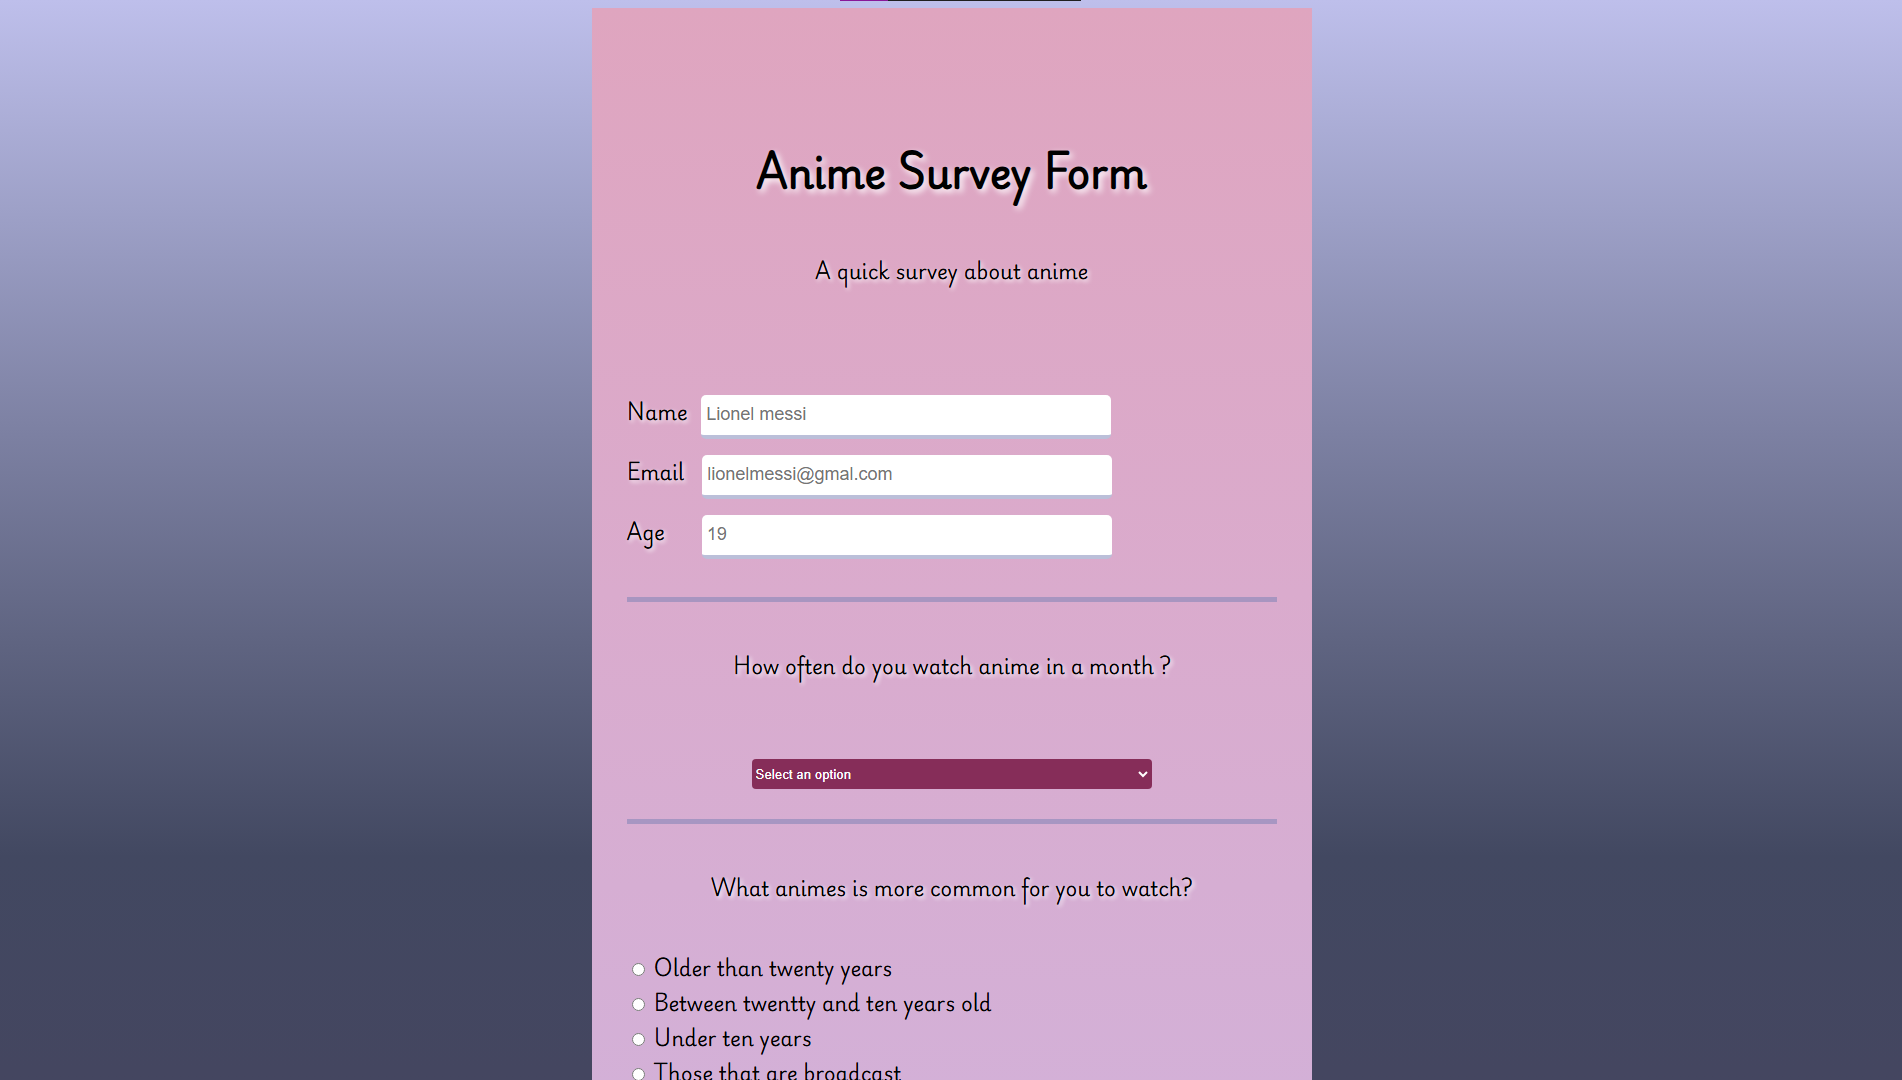
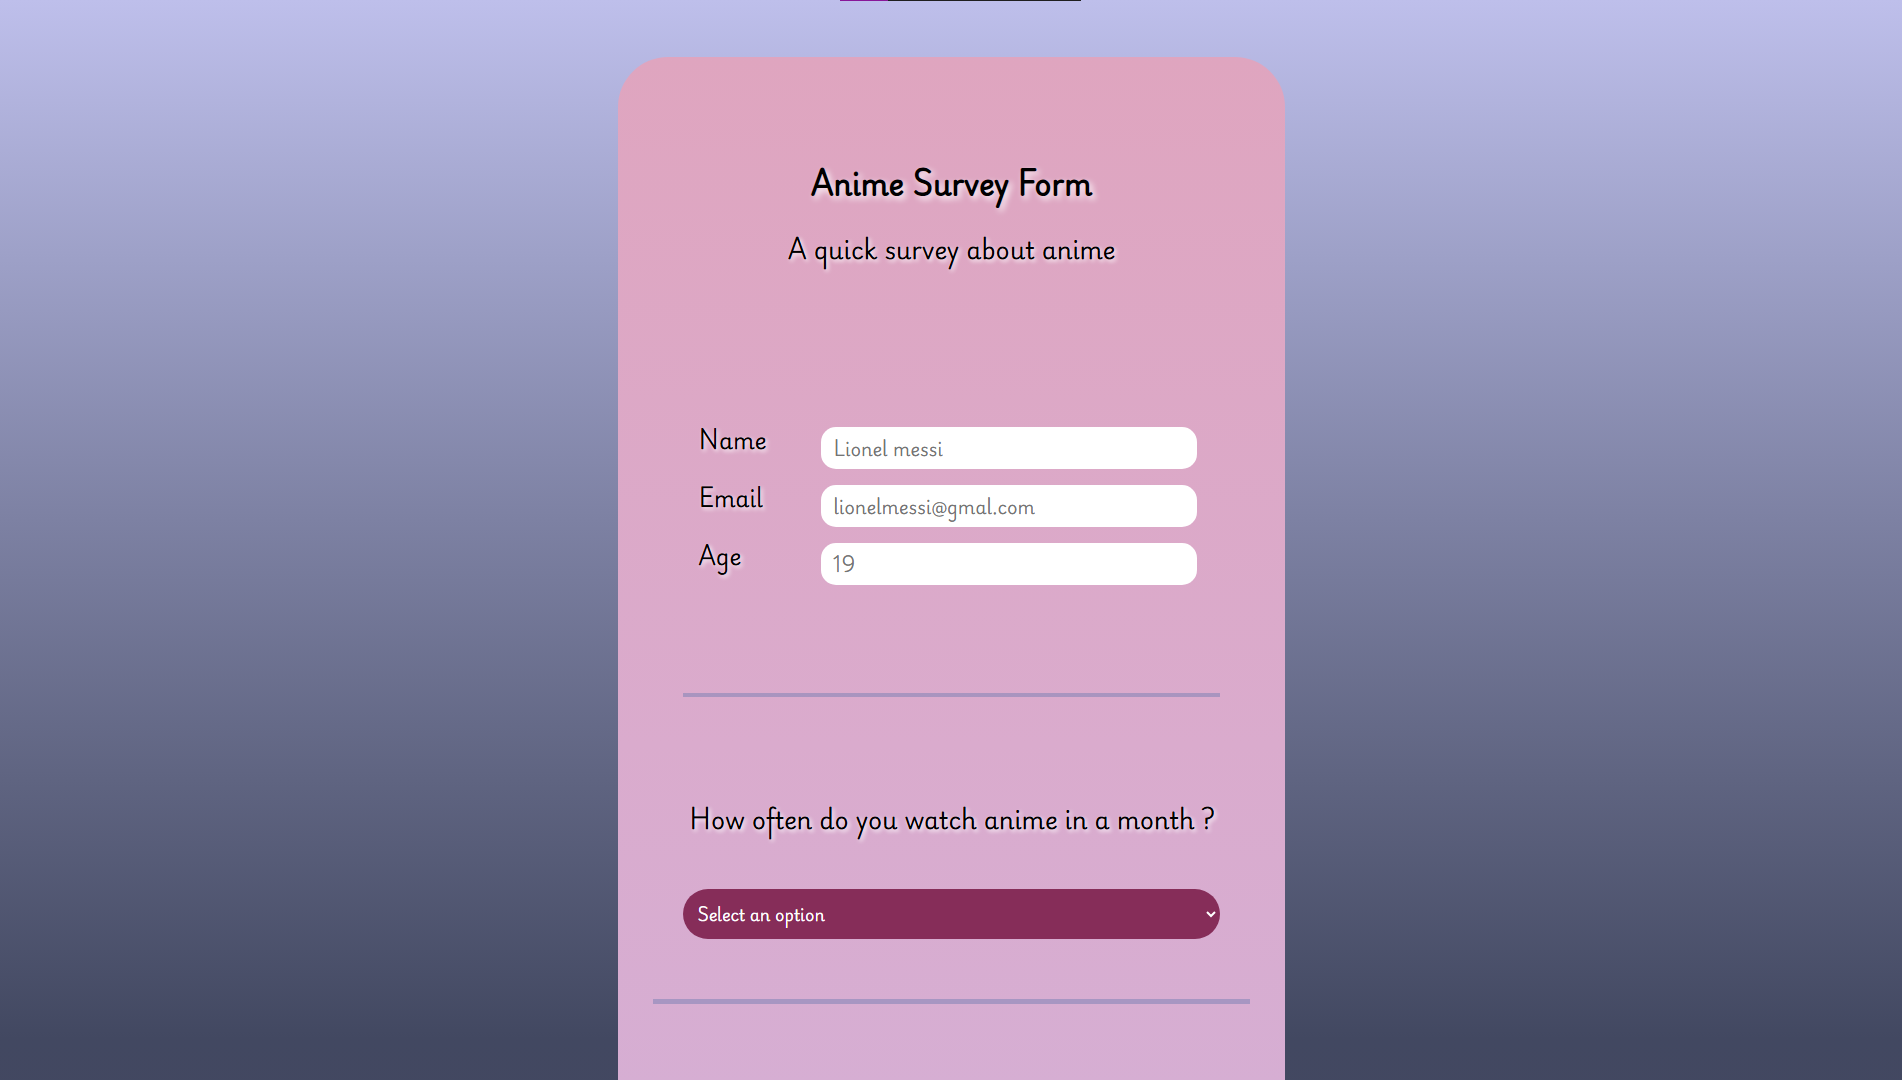
final form getsuga tenshou

diff --git a/styles.css b/styles.css
@@ -1,17 +1,29 @@
+@import url('https://fonts.cdnfonts.com/css/the-left-handed-cursiva');
+@import url('https://fonts.googleapis.com/css2?family=Gideon+Roman&family=Noto+Serif:ital,wght@0,100..900;1,100..900&family=Playwrite+DE+Grund:wght@100..400&family=Romanesco&display=swap');
+@import url('https://fonts.googleapis.com/css2?family=Gideon+Roman&family=Great+Vibes&family=Noto+Serif:ital,wght@0,100..900;1,100..900&family=Playwrite+DE+Grund:wght@100..400&family=Romanesco&display=swap');
+/* font-family: "Romanesco", cursive;
+font-family: 'The Left-Handed Cursiva', sans-serif; 
+font-family: "Great Vibes", cursive; */
+
 * {
     font-size: 1em;
     margin: 0;
     padding: 0;
     /* border: 1px solid black; */
     box-sizing: border-box;
+    font-family: "Great Vibes", cursive;
+}
+
+.fontRomanesco {
+    font-family: "Romanesco", cursive;
 }
 
 :root {
     --letrasPrincipales: #C81945;
-    --letrasSecundarias:  #6AB1C0;
+    --letrasSecundarias: #6AB1C0;
     --headerBackground: linear-gradient(130deg, rgba(37, 60, 100, 1) 60%, rgba(243, 224, 211, 1) 75%, rgba(237, 238, 234, 1) 100%);
     --bodyBackground: linear-gradient(130deg, rgba(203, 162, 140, 1) 0%, rgba(243, 224, 211, 1) 15%, rgba(237, 238, 234, 1) 25%, rgba(243, 224, 211, 1) 35%, rgba(216, 182, 163, 1) 50%, rgba(243, 224, 211, 1) 65%, rgba(237, 238, 234, 1) 75%, rgba(243, 224, 211, 1) 85%, rgba(216, 182, 163, 1) 100%);
-    --colorUno: #033E41 ;
+    --colorUno: #033E41;
     --colorDos: #593779;
     --colorTres: #253C64;
     --colorCuatro: #EDEEEA;
@@ -43,7 +55,7 @@ header {
     display: flex;
     justify-content: flex-end;
     align-items: center;
-    font-size: 1.4rem;
+    font-size: 2rem;
 
 
 }
@@ -60,10 +72,10 @@ header {
 
 .navbar ul li {
     margin: 25px;
-    padding: 12px;
-    border-radius: 15px 0 15px 0;
-    transition: 1s;
-
+    padding: 15px;
+    border-radius: 50px 2px 50px 2px;
+    transition: 700ms;
+    text-shadow: 5px 5px 5px var(--colorSeis);
 
 }
 
@@ -75,12 +87,13 @@ header {
 .navbar ul li:hover {
     background-color: var(--colorCinco);
     transform: scale(1.1);
+    text-shadow: 5px 5px 5px var(--colorCuatro);
 }
 
 .welcomeSection {
     height: fit-content;
     text-align: center;
-    font-size: 2.5rem;
+    font-size: 3rem;
     margin: 200px 30% 100px 30%;
     color: var(--letrasPrincipales);
 
@@ -88,7 +101,7 @@ header {
 
 .welcomeSection p {
     margin-top: 25px;
-    font-size: 2rem;
+    font-size: 2.2rem;
     color: var(--letrasSecundarias);
 
 }
@@ -98,32 +111,37 @@ header {
     margin: auto;
     height: 4px;
     border-color: var(--letrasSecundarias);
-    background-color:  var(--letrasSecundarias);
+    background-color: var(--letrasSecundarias);
     border-radius: 25px;
 }
 
 .encabezadoProjects {
-    font-size: 2rem;
+    font-size: 2.4rem;
     text-align: center;
     margin: 100px 30% 50px 30%;
     color: var(--letrasPrincipales);
 }
 
 .encabezadoProjects p {
-    font-size: 1.6rem;
+    font-size: 2.2rem;
     color: var(--letrasSecundarias);
     margin-top: 25px;
 }
 
 .projectsBox {
     display: grid;
-    grid-template-columns: repeat(auto-fit, minmax(500px, 1fr));
-    gap: 2rem;
+    grid-template-columns: repeat(auto-fit, minmax(45%, 1fr));
+    gap: 2.2rem;
     width: 100%;
-    max-width: 1280px;
+    max-width: 80%;
     margin: 0 auto;
     margin-bottom: 6rem;
 
+}
+
+.projectsBox p {
+    font-family: 'The Left-Handed Cursiva', sans-serif;
+    ;
 }
 
 .project-tile {
@@ -134,7 +152,7 @@ header {
     border-color: var(--colorSeis);
     border-radius: 25px;
     text-align: center;
-    font-size: 2rem;
+    font-size: 2.2rem;
     transition: 500ms;
     background-color: var(--colorUno);
 
@@ -154,8 +172,8 @@ header {
 }
 
 img {
-    width: 100%;
-    padding: 5px;
+    width: 99%;
+    padding: 1%;
     border-radius: 20px;
 }
 
@@ -166,8 +184,22 @@ footer {
     justify-content: center;
     align-content: center;
     background: linear-gradient(310deg, rgba(200, 25, 69, 1) 60%, rgba(243, 224, 211, 1) 75%, rgba(237, 238, 234, 1) 100%);
+    height: 20vh
 }
-footer img{
+
+footer p {
+    display: flex;
+    font-size: 3rem;
+    justify-content: center;
+    align-items: center;
+    text-align: center;
+    color: var(--colorCuatro);
+    text-shadow: 1px 1px 3px var(--colorUno);
+    text-decoration: underline var(--colorTres);
+    margin: 0 20px 0 0;
+}
+
+footer img {
     width: 50px;
 }
 
@@ -175,9 +207,131 @@ footer ul {
     display: flex;
     justify-content: center;
     align-items: center;
-    font-size: 1.6rem;
+    font-size: 2rem;
     list-style: none;
     text-align: center;
     margin: 20px;
 
+}
+
+footer li {
+    text-decoration: underline var(--colorTres) double 2px;
+    text-shadow: 1px 1px 10px var(--colorCuatro);
+    margin-left: 5px;
+}
+
+footer a {
+    height: 60px;
+    color: var(--colorCuatro);
+    text-decoration: none;
+    display: flex;
+    align-items: center;
+    justify-content: center;
+    text-align: center;
+    gap: 0.5rem;
+    transition: 1s;
+    margin: 0 0 0 25px;
+    padding: 10px 10px;
+    border-radius: 20px;
+}
+
+footer a:hover {
+    transform: scale(1.05);
+    background-color: var(--colorTres);
+    text-shadow: none;
+    box-shadow: 0px 0px 10px var(--colorCuatro);
+    text-decoration: underline var(--letrasPrincipales) double 2px;
+}
+
+
+
+
+/*-------- Mobile Screen ----------*/
+
+
+
+
+
+@media (max-width: 900px) {
+
+    .navbar {
+        justify-content: center;
+    }
+
+    .navbar ul li {
+        margin: 10px;
+        text-shadow: 5px 5px 5px black;
+
+    }
+
+    .navbar ul li:active {
+        background-color: var(--colorCinco);
+        transform: scale(1.1);
+        text-shadow: 5px 5px 5px var(--colorCuatro);
+    }
+
+    .welcomeSection {
+        font-size: 2.5rem;
+        margin: 200px 10% 100px 10%;
+    }
+
+    .encabezadoProjects {
+        font-size: 2.2rem;
+        margin: 100px 10% 50px 10%;
+    }
+
+    .encabezadoProjects p {
+        font-size: 2rem;
+    }
+
+
+    .projectsBox {
+        display: grid;
+        grid-template-columns: repeat(auto-fit, minmax(100%, 1fr));
+        gap: 2.2rem;
+        width: 100%;
+        max-width: 80%;
+        margin: 0 auto;
+        margin-bottom: 6rem;
+
+    }
+
+    footer {
+        flex-direction: column;
+    }
+
+
+    footer p {
+        font-size: 2.4rem;
+        color: var(--colorCuatro);
+        margin: auto;
+    }
+
+    footer img {
+        width: 40px;
+    }
+
+    footer ul {
+        font-size: 2rem;
+        margin: auto 5% auto 5%;
+
+    }
+
+    footer li {
+        text-decoration: underline var(--colorTres) double 2px;
+        text-shadow: 1px 1px 10px var(--colorCuatro);
+        margin-left: 5px;
+    }
+
+    footer a {
+        height: 50px;
+    }
+
+    footer a:active {
+        transform: scale(1.05);
+        background-color: var(--colorTres);
+        text-shadow: none;
+        box-shadow: 0px 0px 10px var(--colorCuatro);
+        text-decoration: underline var(--letrasPrincipales) double 2px;
+    }
 }

diff --git a/index.html b/index.html
@@ -9,7 +9,7 @@
 </head>
 
 <body>
-    <header>
+    <header id="header">
         <nav id="navbar" class="navbar">
             <ul>
                 <li>
@@ -42,7 +42,7 @@
                 <div class="project project-tile">
                     <a href="./pages/Landing-page/index.html">
                         <img src="assets/K-pop Landing page.png" alt="K-pop Landing page">
-                        <p class="projectTitle">Landing page</p>
+                        <p class="projectTitle">Landing Page</p>
                     </a>
                 </div>
                 <div class=" project project-tile">
@@ -54,13 +54,13 @@
                 <div class=" project project-tile">
                     <a href="./pages/Pagina-homenaje/index.html">
                         <img src="assets/Pagina Homenaje a Thrall.png" alt="">
-                        <p>Homenaje a thrall</p>
+                        <p>Homenaje a Thrall</p>
                     </a>
 
                 </div>
                 <div class=" project project-tile">
                     <a href="./pages/Encuesta-anime/index.html">
-                        <img src="assets/Encuesta anime.png" alt="">
+                        <img src="assets/Encuesta Anime.png" alt="">
                         <p>Encuesta de Anime</p>
                     </a>
                 </div>
@@ -73,14 +73,19 @@
 
 
     <footer id="linkContacts">
+        <p>Aqui te dejo mis links</p>
         <ul>
-            <li><a href="https://github.com/Enzoferto" id="profile-link" target="_blank"><img src="assets/github.png"
-                        alt="github logo"> github</a></li>
-            <li><a href="https://www.freecodecamp.org/espanol/fccabc9632d-62f0-4026-a567-897d2e6a21b2" id="profile-link"
-                    target="_blank">freecodecamp</a>
+
+            <li><a href="https://github.com/Enzoferto" id="Git-profile-link" target="_blank"><img
+                        src="assets/github.png" alt="github logo"> Github</a></li>
+
+            <li><a href="https://www.freecodecamp.org/espanol/fccabc9632d-62f0-4026-a567-897d2e6a21b2"
+                    id="Free-profile-link" target="_blank"><img src="assets/free code camp logo.png"
+                        alt="free code camp logo"> Freecodecamp</a>
             </li>
         </ul>
     </footer>
+    <script src="script.js"></script>
 </body>
 
 </html>

diff --git a/script.js b/script.js
@@ -1,0 +1,22 @@
+// Detecta los clics en los enlaces de ancla
+document.querySelectorAll('a[href^="#"]').forEach(anchor => {
+    anchor.addEventListener('click', function(e) {
+        e.preventDefault(); // Prevenir el comportamiento predeterminado del enlace
+        
+        // Obtener el destino del ancla (el id del elemento al que se hace referencia)
+        const targetId = this.getAttribute('href').substring(1);
+        const targetElement = document.getElementById(targetId);
+        console.log(targetElement)
+        if (targetElement) {
+                // Obtener la posición de la sección a la que queremos desplazarnos
+            const targetPosition = targetElement.offsetTop;
+
+            // Ajustar el desplazamiento sumando la altura del header
+            window.scrollTo({
+                top: targetPosition - document.getElementById('header').offsetHeight -50,
+                behavior: 'smooth' // Para un desplazamiento suave
+            });
+            
+        }
+    });
+});
